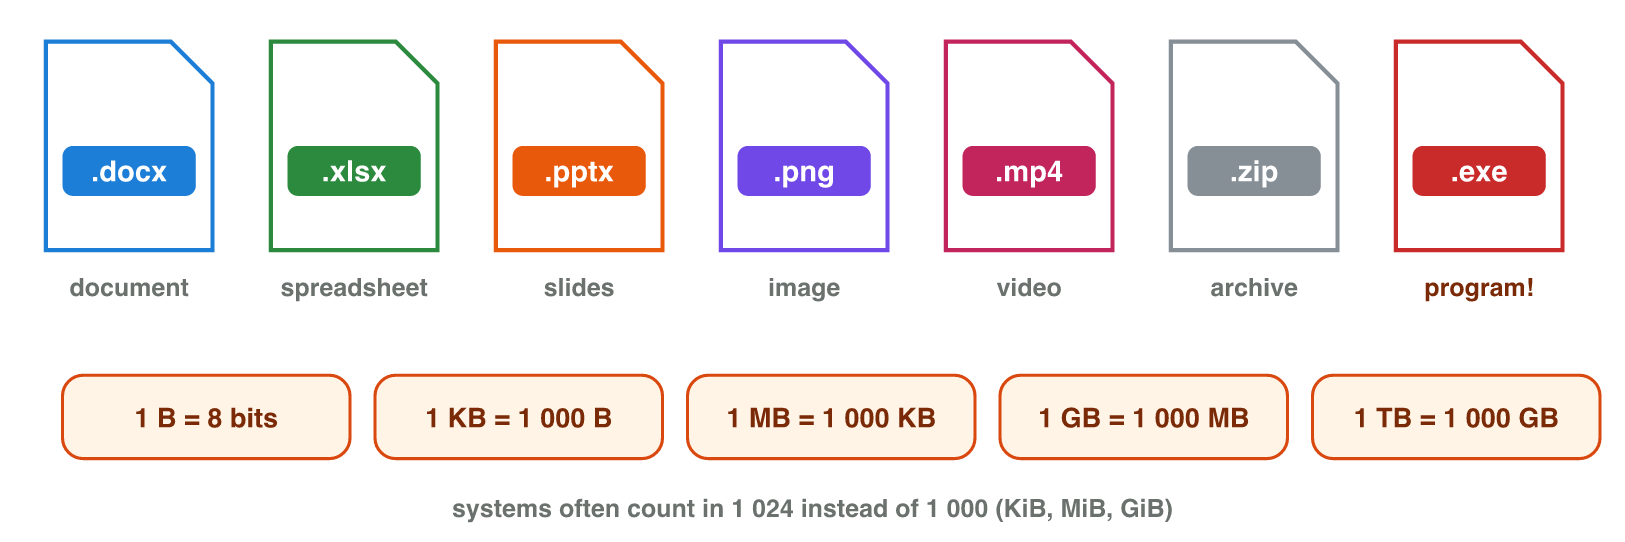
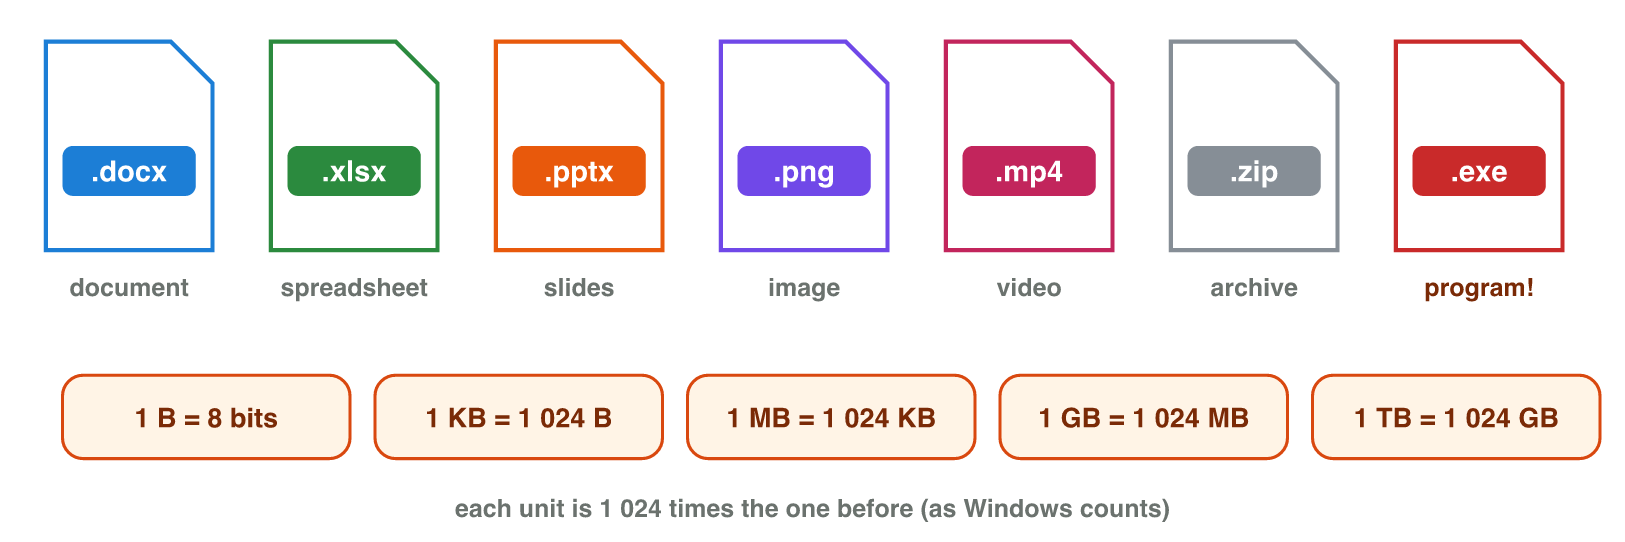
Add the Hiring Desk mini-game and count file sizes in 1024
Digital Skills lesson 1: the Game challenge is now a playable mini-game
(sort the tasks of Pixel Harbor's job adverts into DigComp areas, read the
candidates' levels, hire), on the page, in the notes and on the slides with
its recording.

Lesson 2: file sizes count in steps of 1024 (1 KB = 1024 bytes,
1 MB = 1024 KB, 1 GB = 1024 MB), with a worked example, an exercise and a
Try it question, and an updated figure.

diff --git a/courses/digital-skills/week-01/sims/hiring-desk.html b/courses/digital-skills/week-01/sims/hiring-desk.html
@@ -1,0 +1,198 @@
+<!doctype html>
+<html lang="en">
+<head>
+  <meta charset="utf-8">
+  <meta name="viewport" content="width=device-width, initial-scale=1">
+  <title>Mini-game: Hiring Desk</title>
+  <link rel="stylesheet" href="../../../../shared/sims/sim-base.css">
+  <style>
+    .sim .hud { display: flex; flex-wrap: wrap; gap: 4px 14px; align-items: baseline; font-weight: 800; margin-bottom: 8px; }
+    .sim .hud .stage { color: var(--sim-accent); }
+    .sim .hud .score { margin-left: auto; font-variant-numeric: tabular-nums; }
+    .sim .card { border: 1.5px solid #ffc078; background: #fff8f1; border-radius: 14px; padding: 12px 14px; min-height: 92px; }
+    .sim .card .who { display: inline-block; font-size: .8rem; font-weight: 800; color: #fff; background: var(--sim-accent); border-radius: 999px; padding: 2px 10px; margin-bottom: 6px; }
+    .sim .card .text { font-size: 1.12rem; font-weight: 800; line-height: 1.35; }
+    .sim .card .ask { font-size: .9rem; color: var(--sim-muted); margin-top: 4px; font-weight: 600; }
+    .sim .timebar { height: 8px; border-radius: 4px; background: #ffe8d6; margin: 8px 0 10px; overflow: hidden; }
+    .sim .timebar div { height: 100%; width: 100%; background: var(--sim-accent2); }
+    .sim .opts { display: grid; grid-template-columns: repeat(auto-fit, minmax(150px, 1fr)); gap: 8px; }
+    .sim .opts button { text-align: left; background: #fff; color: inherit; border: 1.5px solid #ffc078; box-shadow: none; font-weight: 700; padding: 9px 12px; line-height: 1.25; }
+    .sim .opts button b { color: var(--sim-accent); margin-right: 4px; }
+    .sim .opts button.good { background: #d3f9d8; border-color: #2b8a3e; }
+    .sim .opts button.bad { background: #ffe3e3; border-color: #c92a2a; }
+    .sim .people { display: grid; grid-template-columns: repeat(auto-fit, minmax(220px, 1fr)); gap: 10px; }
+    .sim .person { text-align: left; background: #fff; color: inherit; border: 1.5px solid #ffc078; box-shadow: none; padding: 10px 12px; font-weight: 600; }
+    .sim .person h2 { font-size: 1.05rem; margin: 0 0 6px; }
+    .sim .person table { border-collapse: collapse; width: 100%; font-size: .88rem; }
+    .sim .person td { padding: 2px 0; }
+    .sim .person td + td { text-align: right; font-weight: 800; }
+    .sim .person td.low { color: #c92a2a; }
+    .sim .person.good { background: #d3f9d8; border-color: #2b8a3e; }
+    .sim .person.bad { background: #ffe3e3; border-color: #c92a2a; }
+    .sim .message.bad { color: #c92a2a; }
+    .sim .done { font-size: 1.1rem; font-weight: 800; }
+  </style>
+</head>
+<body class="theme-workshop">
+<main class="sim">
+  <h1>Pixel Harbor · Hiring Desk</h1>
+  <div class="hud"><span class="stage" id="stage"></span><span id="streak"></span><span class="score" id="score">Score 0</span></div>
+  <div class="card" id="card"></div>
+  <div class="timebar" id="timebar"><div id="time"></div></div>
+  <div id="opts"></div>
+  <div class="controls"><button id="next" type="button" hidden>Next ▶</button><button id="restart" type="button" class="ghost">Restart</button></div>
+  <p id="msg" class="message"></p>
+</main>
+<script src="../../../../shared/sims/sim-base.js"></script>
+<script>
+(() => {
+  const AREAS = ["information and data", "communication and collaboration", "digital content creation", "safety", "problem solving"];
+  const GROUPS = ["foundation (1–2)", "intermediate (3–4)", "advanced (5–6)", "highly specialised (7–8)"];
+  const LEVEL = { f: "foundation", i: "intermediate", a: "advanced" };
+  // Stage 1: the first three cards are the story of the lesson, in this order.
+  const STORY = [
+    { who: "Game tester", text: "Write bug reports in a shared tracker.", area: 1 },
+    { who: "Marketing assistant", text: "Make short videos for social media.", area: 2 },
+    { who: "Everyone", text: "Sign in with a code on the phone.", area: 3 } ];
+  const MORE = [
+    { who: "Game tester", text: "Sort the day's bugs in a spreadsheet.", area: 0 },
+    { who: "Marketing assistant", text: "Check if a forum post about a new phone is reliable.", area: 0 },
+    { who: "Marketing assistant", text: "Reply politely to players on social media.", area: 1 },
+    { who: "Game tester", text: "Share the test plan with the team in a cloud folder.", area: 1 },
+    { who: "Marketing assistant", text: "Check the licence of a free sound effect for a trailer.", area: 2 },
+    { who: "Game tester", text: "Record and cut a short video of a bug.", area: 2 },
+    { who: "Everyone", text: "Handle player data responsibly.", area: 3 },
+    { who: "Everyone", text: "Lock the screen before leaving the desk.", area: 3 },
+    { who: "Game tester", text: "Learn a new bug tracker alone.", area: 4 },
+    { who: "Game tester", text: "Find out why the game will not install on one phone.", area: 4 } ];
+  // Stage 2: what candidates say about themselves.
+  const SAYS = [
+    ["I can share a file, but only when a friend explains each step.", "I make a simple chart only with help."],
+    ["I make charts in a spreadsheet alone.", "I edit a short video alone, with no help."],
+    ["I train my colleagues in a new tool.", "I help others choose the right tool for each task."],
+    ["I lead data protection for a whole company and solve new, hard problems.", "I write the safety rules for a big studio and guide other experts."] ];
+  // Stage 3: hire one of two candidates.
+  const HIRE = [
+    { job: "Game tester", needs: "bug reports (communication), bug videos (content creation), bug spreadsheets (information). Level: intermediate or more.",
+      people: [
+        { name: "Omar", rows: [["programming", "a"], ["communication", "f"], ["content creation", "f"], ["information", "f"]] },
+        { name: "Lina", rows: [["programming", "-"], ["communication", "i"], ["content creation", "i"], ["information", "i"]] } ],
+      right: 1, why: "The tester needs communication, content creation and information at intermediate. Programming is not on the list." },
+    { job: "Marketing assistant", needs: "short videos (content creation), replies to players (communication), player data (safety). Level: intermediate or more.",
+      people: [
+        { name: "Sami", rows: [["content creation", "a"], ["communication", "i"], ["safety", "f"]] },
+        { name: "Dana", rows: [["content creation", "i"], ["communication", "i"], ["safety", "i"]] } ],
+      right: 1, why: "Sami is at foundation in safety, but the job handles player data. Dana has every area at intermediate." } ];
+  const STAGES = ["Stage 1 · Sort the job adverts", "Stage 2 · Read the candidates", "Stage 3 · Hire"];
+  const SECONDS = 15;
+  const $ = (id) => document.getElementById(id);
+  const shuffle = (a) => a.map((x) => [Math.random(), x]).sort((p, q) => p[0] - q[0]).map((p) => p[1]);
+  let rounds = [], stage = 0, i = 0, score = 0, streak = 0, locked = false, timer = 0, started = 0, last = ["", ""];
+
+  function plan() {
+    rounds = [
+      STORY.concat(shuffle(MORE).slice(0, 5)),
+      shuffle(SAYS.map((list, g) => ({ text: list[Math.floor(Math.random() * list.length)], group: g }))),
+      HIRE ];
+  }
+  function say(t, k) { last = [t, k]; $("msg").textContent = t; $("msg").className = "message " + (k || ""); }
+  function hud() {
+    $("score").textContent = "Score " + score;
+    $("streak").textContent = streak >= 2 ? "Streak ×" + streak : "";
+  }
+  function startTimer() {
+    const bar = $("time");
+    bar.style.transition = "none"; bar.style.width = "100%";
+    $("timebar").hidden = false;
+    started = Date.now();
+    requestAnimationFrame(() => requestAnimationFrame(() => {
+      try { bar.style.transition = `width ${SECONDS}s linear`; bar.style.width = "0%"; } catch (e) { /* the timer below still decides */ }
+    }));
+    clearTimeout(timer);
+    timer = setTimeout(() => answer(-1, null), SECONDS * 1000);
+  }
+  function stopTimer() {
+    clearTimeout(timer);
+    const bar = $("time"), w = getComputedStyle(bar).width;
+    bar.style.transition = "none"; bar.style.width = w;
+  }
+  function show() {
+    locked = false; $("next").hidden = true; say("");
+    const list = rounds[stage], r = list[i];
+    $("stage").textContent = `${STAGES[stage]} · ${i + 1}/${list.length}`;
+    const opts = $("opts"); opts.innerHTML = "";
+    if (stage < 2) {
+      opts.className = "opts";
+      $("card").innerHTML = stage === 0
+        ? `<span class="who">${r.who}</span><div class="text">${r.text}</div><div class="ask">Which DigComp area does this task need?</div>`
+        : `<span class="who">Candidate</span><div class="text">“${r.text}”</div><div class="ask">Which proficiency group is this?</div>`;
+      (stage === 0 ? AREAS : GROUPS).forEach((t, k) => {
+        const b = document.createElement("button"); b.type = "button";
+        b.innerHTML = stage === 0 ? `<b>${k + 1}</b>${t}` : t;
+        b.addEventListener("click", () => answer(k, b));
+        opts.appendChild(b);
+      });
+      startTimer();
+    } else {
+      $("timebar").hidden = true;
+      opts.className = "people";
+      $("card").innerHTML = `<span class="who">Job: ${r.job}</span><div class="text">Needs ${r.needs}</div><div class="ask">Tap the candidate you hire.</div>`;
+      r.people.forEach((p, k) => {
+        const b = document.createElement("button"); b.type = "button"; b.className = "person";
+        b.innerHTML = `<h2>${p.name}</h2><table>${p.rows.map(([a, l]) =>
+          `<tr><td>${a}</td><td class="${l === "f" ? "low" : ""}">${LEVEL[l] || "none"}</td></tr>`).join("")}</table>`;
+        b.addEventListener("click", () => answer(k, b));
+        opts.appendChild(b);
+      });
+    }
+  }
+  function answer(k, btn) {
+    if (locked) { if (btn && !last[0].endsWith("Tap Next ▶.")) say(last[0] + " Tap Next ▶.", last[1]); return; }
+    locked = true;
+    if (stage < 2) stopTimer();
+    const r = rounds[stage][i];
+    const right = stage === 0 ? r.area : stage === 1 ? r.group : r.right;
+    const names = stage === 0 ? AREAS : stage === 1 ? GROUPS : r.people.map((p) => p.name);
+    const buttons = [...$("opts").children];
+    if (k === right) {
+      streak++;
+      const bonus = stage < 2 ? Math.max(0, Math.round(5 * (1 - (Date.now() - started) / (SECONDS * 1000)))) : 0;
+      score += 10 + bonus + (streak >= 3 ? 2 : 0);
+      btn.classList.add("good");
+      say("✓ Right" + (stage === 2 ? ". " + r.why : ": " + names[right] + "."), "good");
+    } else {
+      streak = 0;
+      if (btn) btn.classList.add("bad");
+      buttons[right].classList.add("good");
+      say((k === -1 ? "⏱ Time! " : "✗ ") + (stage === 2 ? "Hire " + names[right] + ". " + r.why : "It is " + names[right] + "."), "bad");
+    }
+    hud();
+    $("next").hidden = false;
+  }
+  function finish() {
+    const max = (rounds[0].length + rounds[1].length) * 15 + rounds[2].length * 10;
+    $("stage").textContent = "Done";
+    $("card").innerHTML = `<div class="done">🏁 Pixel Harbor has its new team! Score ${score}</div><div class="ask">Your best possible score is about ${max}. Tap Restart for new cards.</div>`;
+    $("opts").innerHTML = ""; $("timebar").hidden = true; $("next").hidden = true; say("");
+    try { const best = Math.max(score, +localStorage.getItem("hiring-desk-best") || 0); localStorage.setItem("hiring-desk-best", best); say("Your best score in this browser: " + best, "good"); } catch (e) { /* no storage: fine */ }
+  }
+  function intro() {
+    $("stage").textContent = "Ready?";
+    $("card").innerHTML = `<span class="who">Pixel Harbor is hiring</span><div class="text">A game tester and a marketing assistant.</div><div class="ask">Sort 8 tasks into DigComp areas, read 4 candidates, then hire 2 people. You have ${SECONDS} seconds for each card.</div>`;
+    $("opts").innerHTML = ""; $("timebar").hidden = true;
+    $("next").textContent = "Start ▶"; $("next").hidden = false; stage = -1;
+  }
+  $("next").addEventListener("click", () => {
+    $("next").textContent = "Next ▶";
+    if (stage < 0) { stage = 0; i = 0; return show(); }
+    i++;
+    if (i >= rounds[stage].length) { i = 0; stage++; }
+    if (stage >= rounds.length) return finish();
+    show();
+  });
+  $("restart").addEventListener("click", () => { clearTimeout(timer); plan(); stage = 0; i = 0; score = 0; streak = 0; hud(); $("next").textContent = "Next ▶"; show(); });
+  plan(); hud(); intro();
+})();
+</script>
+</body>
+</html>

diff --git a/shared/sims/recordings/scenarios/hiring-desk.js b/shared/sims/recordings/scenarios/hiring-desk.js
@@ -1,0 +1,16 @@
+// Hiring Desk: sort the three tasks of the story into DigComp areas, then hire.
+await wait(900); click("#next");
+const AREA = { "bug reports": 1, "short videos": 2, "code on the phone": 3 };
+for (let n = 0; n < 3; n++) {
+  await wait(1000);
+  const text = document.querySelector("#card .text").textContent;
+  const key = Object.keys(AREA).find((k) => text.includes(k));
+  document.querySelectorAll("#opts button")[AREA[key]].click();
+  await wait(1300); click("#next");
+}
+await wait(600);
+// Jump to the hiring stage and hire Lina.
+for (let n = 3; n < 12; n++) { document.querySelector("#opts button").click(); click("#next"); }
+await wait(1500);
+document.querySelectorAll("#opts .person")[1].click();
+await wait(2500);

diff --git a/courses/digital-skills/NOTES.md b/courses/digital-skills/NOTES.md
@@ -23,6 +23,9 @@ Course-specific rules only. Global rules are in the root `AUTHORING.md`.
   this site. Self-assessments stay in the student's browser.
 - In the guidance plan of the diploma the course is in semester 2; the
   2026-2027 syllabus and the timetable put it in semester 1.
+- File sizes count in steps of **1024**, as Windows on the lab computers
+  does: 1 KB = 1024 bytes, 1 MB = 1024 KB, 1 GB = 1024 MB. One-step
+  conversions (2 GB = 2048 MB) are fine; 1024 is not hard for the students.
 
 ## Lessons learned
 
@@ -36,3 +39,9 @@ Course-specific rules only. Global rules are in the root `AUTHORING.md`.
 - Week 1 (2026-10-19, level check, about 20 % simpler): the table of 21
   competences (now five areas in simple words), the EU-targets figure,
   relative paths and file-size calculations were removed.
+- Week 1 (2026-10-20, teacher review): the slides of lesson 1 felt
+  theoretical. The Game challenge is now a mini-game, Hiring Desk (sort the
+  tasks of Pixel Harbor's job adverts into DigComp areas, read the
+  candidates' levels, hire), played on the projector and on the phones.
+  File sizes in lesson 2 now count in 1024 instead of 1000, with one worked
+  example (2 GB = 2048 MB) and one exercise.
